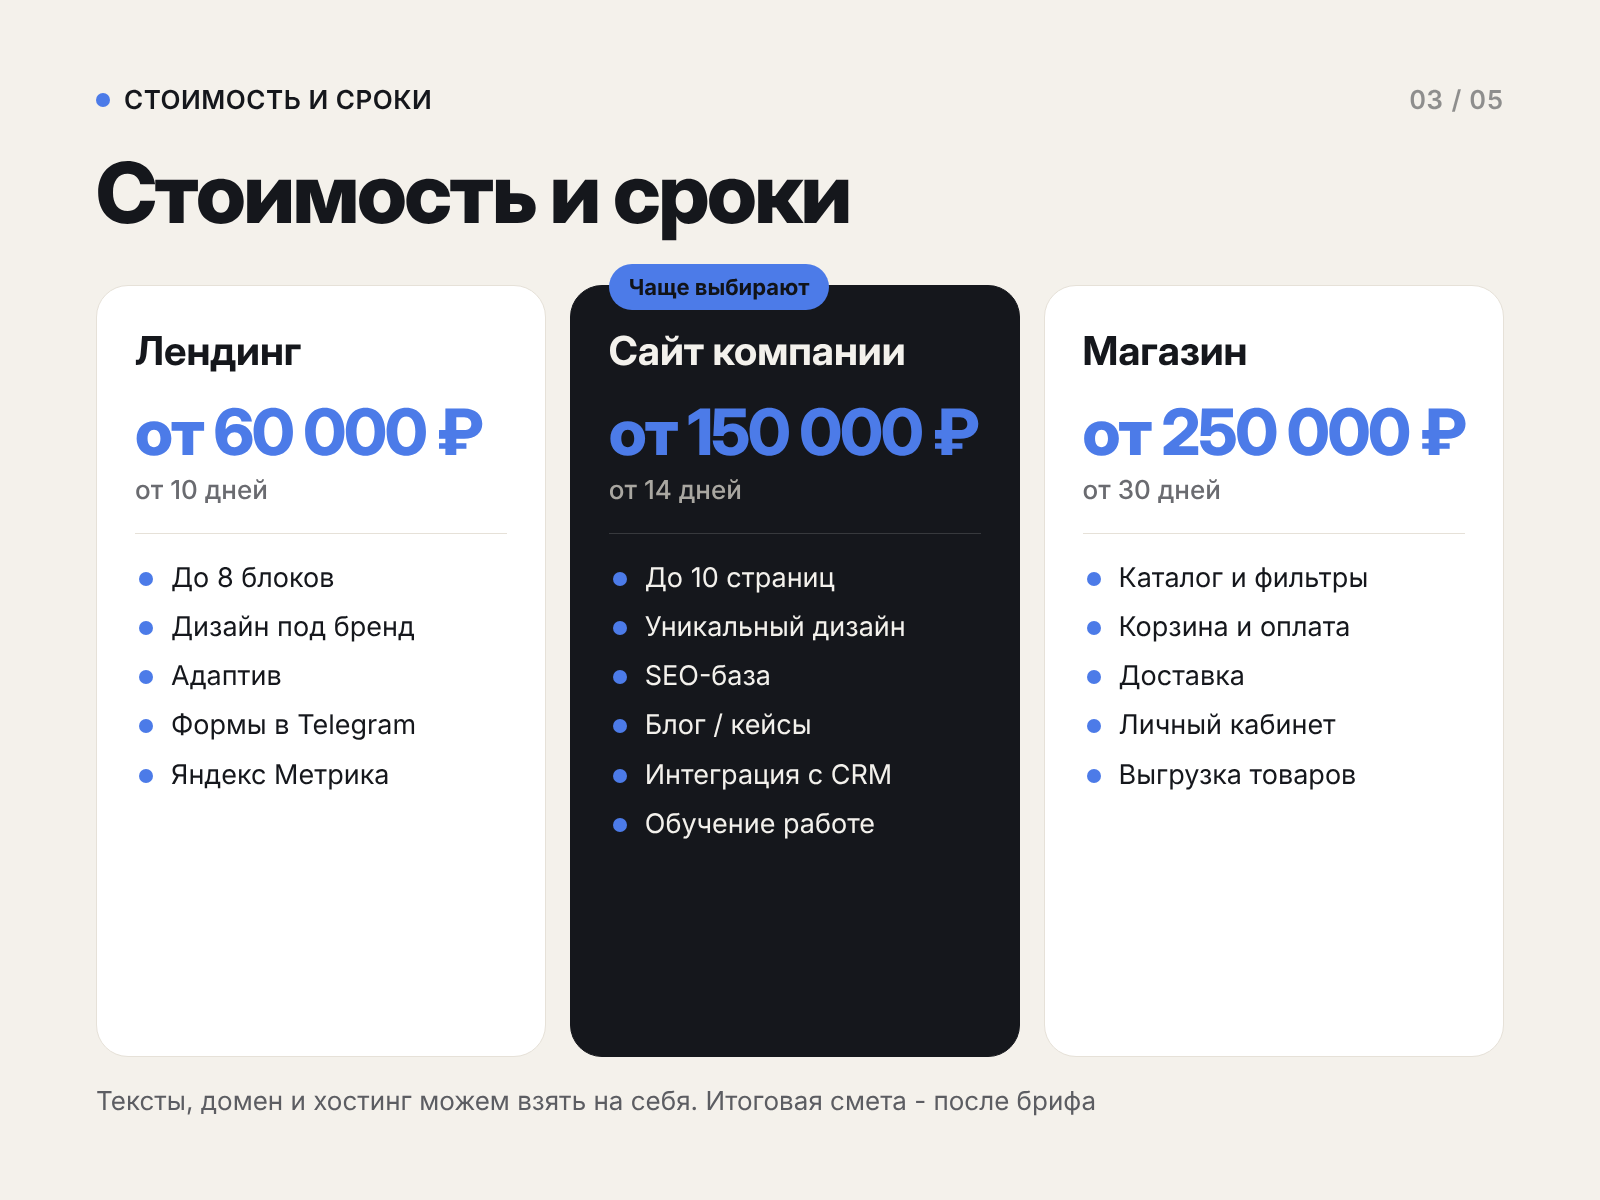
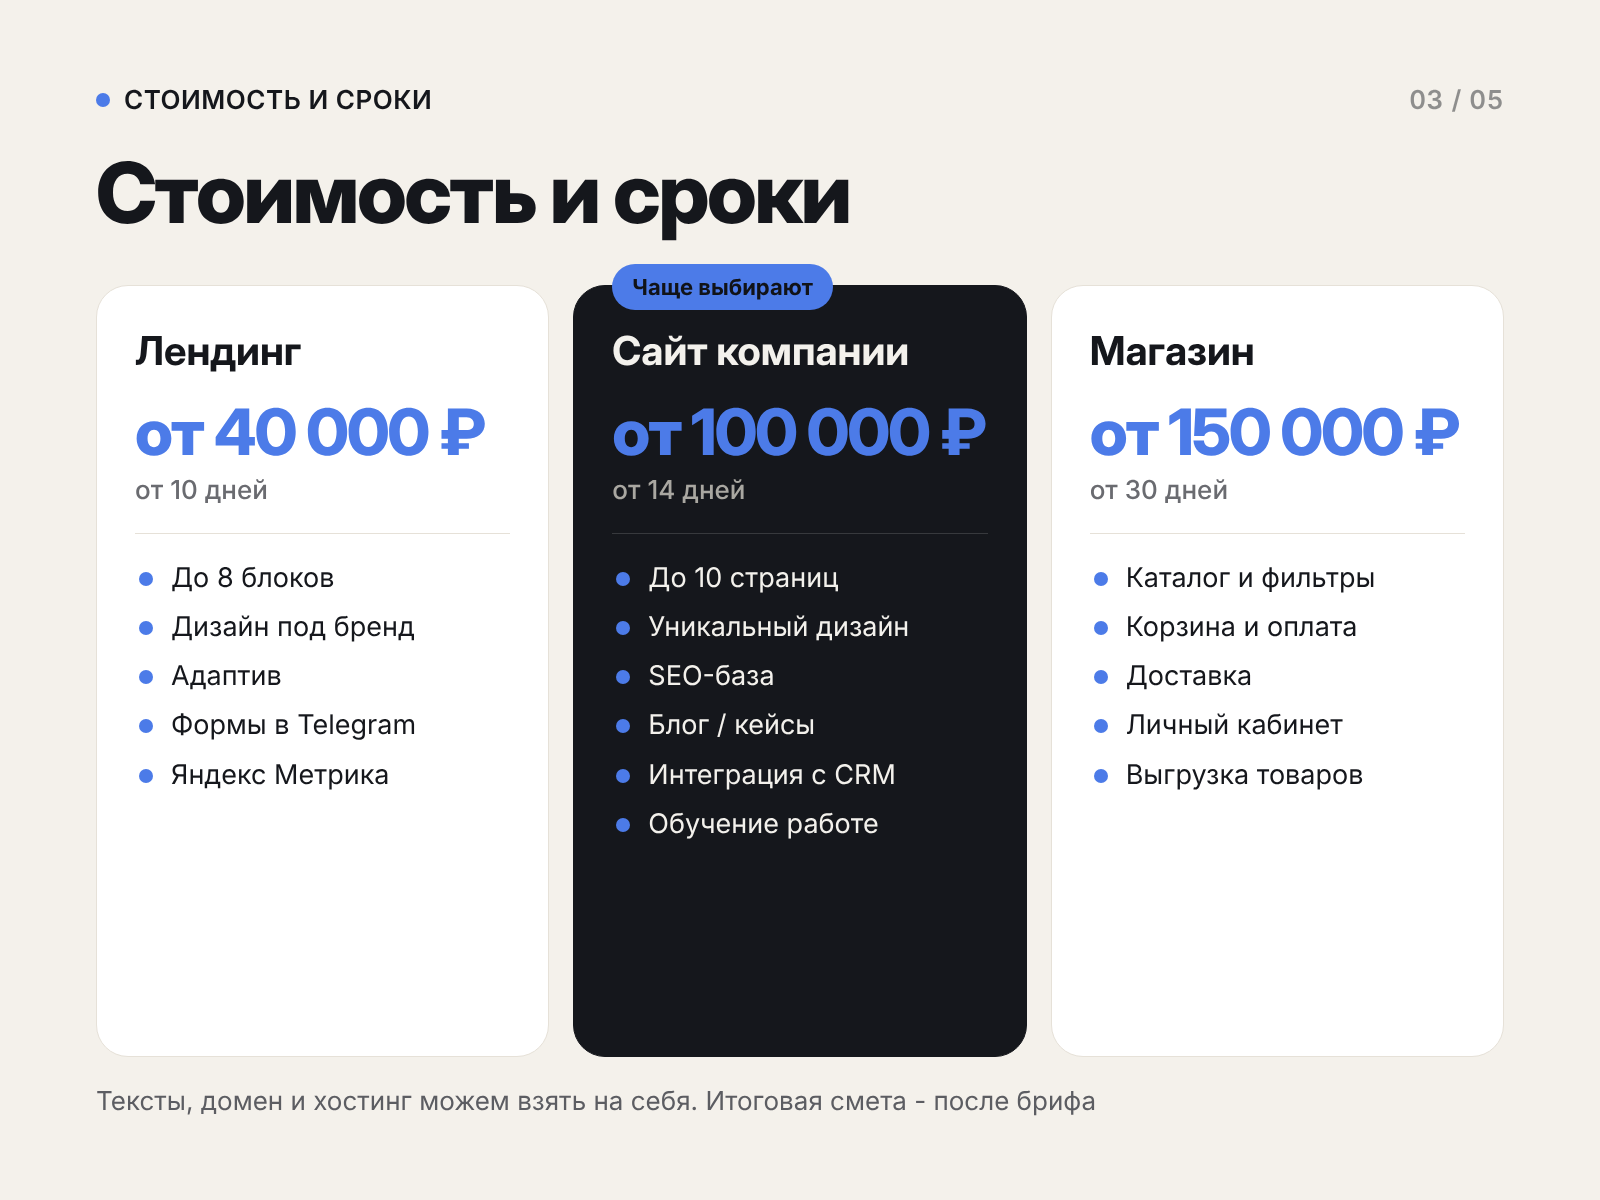
Avito ads: update web and AI prices
Claude-Session: https://claude.ai/code/session_014B2X5Ksf3MbGYuZYbzjrCy

diff --git a/avito/src/html/03-ai-03.html b/avito/src/html/03-ai-03.html
@@ -107,6 +107,6 @@ h2 { position: relative; margin-top: 34px; font-size: 84px; font-weight: 800; le
 <div class="slide light" style="--a:#8A6BF0">
   <div class="top"><span class="kicker"><i></i>Пакеты внедрения</span><span class="pg">03 / 04</span></div>
 <h2>Пакеты внедрения</h2>
-  <div class="pkgs"><div class="pkg"><h3>Консультант</h3><div class="price">от 80 000 ₽</div><div class="term">от 10 дней</div><ul><li>1 канал</li><li>База знаний до 50 вопросов</li><li>Сбор контактов</li><li>Уведомления в Telegram</li><li>Месяц поддержки</li></ul></div><div class="pkg hl"><span class="badge">Чаще выбирают</span><h3>Менеджер</h3><div class="price">от 180 000 ₽</div><div class="term">от 3 недель</div><ul><li>До 3 каналов</li><li>Квалификация заявок</li><li>Запись в календарь</li><li>Интеграция с CRM</li><li>Передача оператору</li><li>2 месяца поддержки</li></ul></div><div class="pkg"><h3>Под задачу</h3><div class="price">от 350 000 ₽</div><div class="term">по ТЗ</div><ul><li>Сложные сценарии</li><li>Работа с документами</li><li>Внутренние ассистенты</li><li>Интеграции по API</li><li>Индивидуальный SLA</li></ul></div></div>
+  <div class="pkgs"><div class="pkg"><h3>Консультант</h3><div class="price">от 50 000 ₽</div><div class="term">от 10 дней</div><ul><li>1 канал</li><li>База знаний до 50 вопросов</li><li>Сбор контактов</li><li>Уведомления в Telegram</li><li>Месяц поддержки</li></ul></div><div class="pkg hl"><span class="badge">Чаще выбирают</span><h3>Менеджер</h3><div class="price">от 180 000 ₽</div><div class="term">от 3 недель</div><ul><li>До 3 каналов</li><li>Квалификация заявок</li><li>Запись в календарь</li><li>Интеграция с CRM</li><li>Передача оператору</li><li>2 месяца поддержки</li></ul></div><div class="pkg"><h3>Под задачу</h3><div class="price">от 150 000 ₽</div><div class="term">по ТЗ</div><ul><li>Сложные сценарии</li><li>Работа с документами</li><li>Внутренние ассистенты</li><li>Интеграции по API</li><li>Индивидуальный SLA</li></ul></div></div>
   <p class="note">Оплата <span class="nw">AI-сервиса</span> по факту использования - обычно 5 <span class="nw">000-20</span> 000 ₽/мес. Посчитаем заранее</p>
 </div></body></html>

diff --git a/avito/src/html/02-web-03.html b/avito/src/html/02-web-03.html
@@ -107,6 +107,6 @@ h2 { position: relative; margin-top: 34px; font-size: 84px; font-weight: 800; le
 <div class="slide light" style="--a:#4C7BE8">
   <div class="top"><span class="kicker"><i></i>Стоимость и сроки</span><span class="pg">03 / 05</span></div>
 <h2>Стоимость и сроки</h2>
-  <div class="pkgs"><div class="pkg"><h3>Лендинг</h3><div class="price">от 60 000 ₽</div><div class="term">от 10 дней</div><ul><li>До 8 блоков</li><li>Дизайн под бренд</li><li>Адаптив</li><li>Формы в Telegram</li><li>Яндекс Метрика</li></ul></div><div class="pkg hl"><span class="badge">Чаще выбирают</span><h3>Сайт компании</h3><div class="price">от 150 000 ₽</div><div class="term">от 14 дней</div><ul><li>До 10 страниц</li><li>Уникальный дизайн</li><li><span class="nw">SEO-база</span></li><li>Блог / кейсы</li><li>Интеграция с CRM</li><li>Обучение работе</li></ul></div><div class="pkg"><h3>Магазин</h3><div class="price">от 250 000 ₽</div><div class="term">от 30 дней</div><ul><li>Каталог и фильтры</li><li>Корзина и оплата</li><li>Доставка</li><li>Личный кабинет</li><li>Выгрузка товаров</li></ul></div></div>
+  <div class="pkgs"><div class="pkg"><h3>Лендинг</h3><div class="price">от 40 000 ₽</div><div class="term">от 10 дней</div><ul><li>До 8 блоков</li><li>Дизайн под бренд</li><li>Адаптив</li><li>Формы в Telegram</li><li>Яндекс Метрика</li></ul></div><div class="pkg hl"><span class="badge">Чаще выбирают</span><h3>Сайт компании</h3><div class="price">от 100 000 ₽</div><div class="term">от 14 дней</div><ul><li>До 10 страниц</li><li>Уникальный дизайн</li><li><span class="nw">SEO-база</span></li><li>Блог / кейсы</li><li>Интеграция с CRM</li><li>Обучение работе</li></ul></div><div class="pkg"><h3>Магазин</h3><div class="price">от 150 000 ₽</div><div class="term">от 30 дней</div><ul><li>Каталог и фильтры</li><li>Корзина и оплата</li><li>Доставка</li><li>Личный кабинет</li><li>Выгрузка товаров</li></ul></div></div>
   <p class="note">Тексты, домен и хостинг можем взять на себя. Итоговая смета - после брифа</p>
 </div></body></html>

diff --git a/avito/src/html/03-ai-01.html b/avito/src/html/03-ai-01.html
@@ -109,6 +109,6 @@ h2 { position: relative; margin-top: 34px; font-size: 84px; font-weight: 800; le
   <div class="top"><span class="kicker"><i></i><span class="nw">AI-агенты</span> для бизнеса</span><span class="pg">01 / 04</span></div>
   <h1><span class="nw">AI-агент</span>, который <em>отвечает клиентам 24/7</em> и&nbsp;не&nbsp;теряет заявки</h1>
   <p class="sub">Консультирует, уточняет запрос и записывает клиентов в Telegram, VK, на сайте и в CRM</p>
-  <div class="chips"><div class="chip" style="--c:#8A6BF0"><span>Внедрение</span><b>от 80 000 ₽</b></div><div class="chip" style="--c:#8A6BF0"><span>Запуск</span><b>от 10 дней</b></div><div class="chip" style="--c:#8A6BF0"><span>Ответ клиенту</span><b>за секунды</b></div></div>
+  <div class="chips"><div class="chip" style="--c:#8A6BF0"><span>Внедрение</span><b>от 50 000 ₽</b></div><div class="chip" style="--c:#8A6BF0"><span>Запуск</span><b>от 10 дней</b></div><div class="chip" style="--c:#8A6BF0"><span>Ответ клиенту</span><b>за секунды</b></div></div>
   <div class="cta"><span class="arrow">→</span>Бесплатно покажем демо на примере вашего бизнеса - напишите</div>
 </div></body></html>

diff --git a/avito/src/html/00-universal-01.html b/avito/src/html/00-universal-01.html
@@ -109,6 +109,6 @@ h2 { position: relative; margin-top: 34px; font-size: 84px; font-weight: 800; le
   <div class="top"><span class="kicker"><i></i><span class="nw">Digital-команда</span> для бизнеса</span><span class="pg">01 / 05</span></div>
   <h1>Соцсети, сайт и<br><em><span class="nw">AI-агент</span></em> - под ключ</h1>
   <p class="sub">Одна команда закрывает весь путь клиента: от первого поста до заявки в вашем телефоне</p>
-  <div class="chips"><div class="chip" style="--c:#E07A4F"><span>SMM</span><b>от 40 000 ₽/мес</b></div><div class="chip" style="--c:#4C7BE8"><span>Сайты</span><b>от 60 000 ₽</b></div><div class="chip" style="--c:#8A6BF0"><span><span class="nw">AI-агенты</span></span><b>от 80 000 ₽</b></div></div>
+  <div class="chips"><div class="chip" style="--c:#E07A4F"><span>SMM</span><b>от 40 000 ₽/мес</b></div><div class="chip" style="--c:#4C7BE8"><span>Сайты</span><b>от 40 000 ₽</b></div><div class="chip" style="--c:#8A6BF0"><span><span class="nw">AI-агенты</span></span><b>от 50 000 ₽</b></div></div>
   <div class="cta"><span class="arrow">→</span>Бесплатный разбор вашего проекта - напишите в сообщения</div>
 </div></body></html>

diff --git a/avito/src/html/02-web-01.html b/avito/src/html/02-web-01.html
@@ -109,6 +109,6 @@ h2 { position: relative; margin-top: 34px; font-size: 84px; font-weight: 800; le
   <div class="top"><span class="kicker"><i></i>Разработка сайтов</span><span class="pg">01 / 05</span></div>
   <h1>Сайт, который <em>превращает посетителей</em> в&nbsp;заявки</h1>
   <p class="sub">Лендинги, сайты компаний и <span class="nw">интернет-магазины</span> с дизайном под ваш бизнес</p>
-  <div class="chips"><div class="chip" style="--c:#4C7BE8"><span>Лендинг</span><b>от 60 000 ₽</b></div><div class="chip" style="--c:#4C7BE8"><span>Срок</span><b>от 10 дней</b></div><div class="chip" style="--c:#4C7BE8"><span>Адаптив</span><b>телефон и ПК</b></div></div>
+  <div class="chips"><div class="chip" style="--c:#4C7BE8"><span>Лендинг</span><b>от 40 000 ₽</b></div><div class="chip" style="--c:#4C7BE8"><span>Срок</span><b>от 10 дней</b></div><div class="chip" style="--c:#4C7BE8"><span>Адаптив</span><b>телефон и ПК</b></div></div>
   <div class="cta"><span class="arrow">→</span>Бесплатная консультация и оценка проекта - напишите в сообщения</div>
 </div></body></html>

diff --git a/avito/src/build.py b/avito/src/build.py
@@ -31,8 +31,8 @@ ADS = {
                 "sub": "Одна команда закрывает весь путь клиента: от первого поста до заявки в вашем телефоне",
                 "chips": [
                     ("SMM", "от 40 000 ₽/мес", ACC["smm"]),
-                    ("Сайты", "от 60 000 ₽", ACC["web"]),
-                    ("AI-агенты", "от 80 000 ₽", ACC["ai"]),
+                    ("Сайты", "от 40 000 ₽", ACC["web"]),
+                    ("AI-агенты", "от 50 000 ₽", ACC["ai"]),
                 ],
                 "cta": "Бесплатный разбор вашего проекта - напишите в сообщения",
             },
@@ -153,7 +153,7 @@ ADS = {
                 "title": "Сайт, который <em>превращает посетителей</em> в&nbsp;заявки",
                 "sub": "Лендинги, сайты компаний и интернет-магазины с дизайном под ваш бизнес",
                 "chips": [
-                    ("Лендинг", "от 60 000 ₽", None),
+                    ("Лендинг", "от 40 000 ₽", None),
                     ("Срок", "от 10 дней", None),
                     ("Адаптив", "телефон и ПК", None),
                 ],
@@ -178,9 +178,9 @@ ADS = {
                 "type": "packages",
                 "title": "Стоимость и сроки",
                 "packages": [
-                    ("Лендинг", "60 000 ₽", "от 10 дней", ["До 8 блоков", "Дизайн под бренд", "Адаптив", "Формы в Telegram", "Яндекс Метрика"], False),
-                    ("Сайт компании", "150 000 ₽", "от 14 дней", ["До 10 страниц", "Уникальный дизайн", "SEO-база", "Блог / кейсы", "Интеграция с CRM", "Обучение работе"], True),
-                    ("Магазин", "250 000 ₽", "от 30 дней", ["Каталог и фильтры", "Корзина и оплата", "Доставка", "Личный кабинет", "Выгрузка товаров"], False),
+                    ("Лендинг", "40 000 ₽", "от 10 дней", ["До 8 блоков", "Дизайн под бренд", "Адаптив", "Формы в Telegram", "Яндекс Метрика"], False),
+                    ("Сайт компании", "100 000 ₽", "от 14 дней", ["До 10 страниц", "Уникальный дизайн", "SEO-база", "Блог / кейсы", "Интеграция с CRM", "Обучение работе"], True),
+                    ("Магазин", "150 000 ₽", "от 30 дней", ["Каталог и фильтры", "Корзина и оплата", "Доставка", "Личный кабинет", "Выгрузка товаров"], False),
                 ],
                 "note": "Тексты, домен и хостинг можем взять на себя. Итоговая смета - после брифа",
             },
@@ -222,7 +222,7 @@ ADS = {
                 "title": "AI-агент, который <em>отвечает клиентам 24/7</em> и&nbsp;не&nbsp;теряет заявки",
                 "sub": "Консультирует, уточняет запрос и записывает клиентов в Telegram, VK, на сайте и в CRM",
                 "chips": [
-                    ("Внедрение", "от 80 000 ₽", None),
+                    ("Внедрение", "от 50 000 ₽", None),
                     ("Запуск", "от 10 дней", None),
                     ("Ответ клиенту", "за секунды", None),
                 ],
@@ -247,9 +247,9 @@ ADS = {
                 "type": "packages",
                 "title": "Пакеты внедрения",
                 "packages": [
-                    ("Консультант", "80 000 ₽", "от 10 дней", ["1 канал", "База знаний до 50 вопросов", "Сбор контактов", "Уведомления в Telegram", "Месяц поддержки"], False),
+                    ("Консультант", "50 000 ₽", "от 10 дней", ["1 канал", "База знаний до 50 вопросов", "Сбор контактов", "Уведомления в Telegram", "Месяц поддержки"], False),
                     ("Менеджер", "180 000 ₽", "от 3 недель", ["До 3 каналов", "Квалификация заявок", "Запись в календарь", "Интеграция с CRM", "Передача оператору", "2 месяца поддержки"], True),
-                    ("Под задачу", "от 350 000 ₽", "по ТЗ", ["Сложные сценарии", "Работа с документами", "Внутренние ассистенты", "Интеграции по API", "Индивидуальный SLA"], False),
+                    ("Под задачу", "от 150 000 ₽", "по ТЗ", ["Сложные сценарии", "Работа с документами", "Внутренние ассистенты", "Интеграции по API", "Индивидуальный SLA"], False),
                 ],
                 "note": "Оплата AI-сервиса по факту использования - обычно 5 000-20 000 ₽/мес. Посчитаем заранее",
             },
